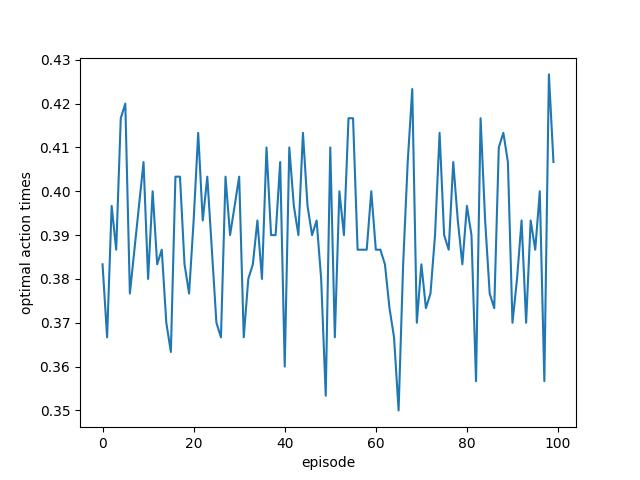
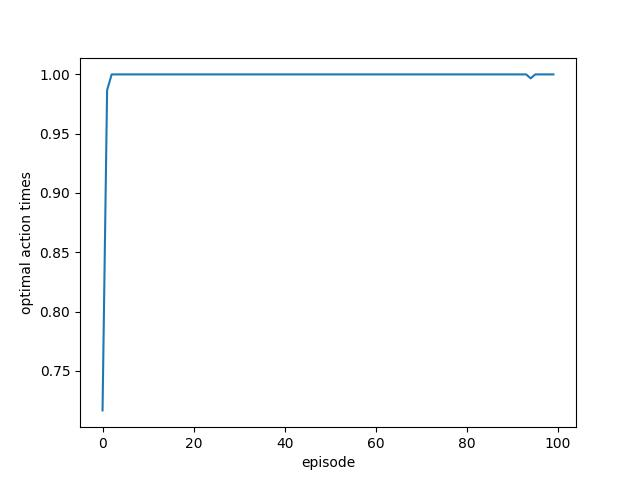
modify softmax function

diff --git a/TaxiProblem_softmax/qLearningAgent.py b/TaxiProblem_softmax/qLearningAgent.py
@@ -32,11 +32,11 @@ class QLearningAgent:
     def act(self):
         #softmax行動選択
         values = self.q_values[self.state]
-        sum_exp_values = sum([np.exp(v/self.tau) for v in values])   # softmax選択の分母の計算
-        print(sum_exp_values)
-        p = [np.exp(v/self.tau)/sum_exp_values for v in values]      # 確率分布の生成
+        max_value = np.max(values)  #オーバーフロー対策
+        exp_values = np.exp((values - max_value) / self.tau)
+        sum_exp_values = np.sum(exp_values)
+        p = exp_values / sum_exp_values  # 確率分布の生成
 
-        print(p)    #TODO なぜかpでnanになる
         action = np.random.choice(np.arange(len(values)), p=p)  # 確率分布pに従ってランダムで選択   
 
         self.previous_action = action

diff --git a/TaxiProblem_softmax/taxiproblem.py b/TaxiProblem_softmax/taxiproblem.py
@@ -1,6 +1,5 @@
-"""おもちゃ屋問題(Toy-Problem)シミュレーション"""
+"""タクシー問題(Taxi-Problem)シミュレーション"""
 
-import random
 import numpy as np
 import matplotlib.pyplot as plt
 from qLearningAgent import QLearningAgent
@@ -39,6 +38,8 @@ if __name__ == '__main__':
         agent.observe(state)    #初期状態に
         
     agent.save_q('Qvalue_softmax.npy')
+    np.save('OptimalActionProbability_Ave_Softmax.npy', opt_act_prob)
+    
     #結果のプロット
     plt.plot(np.arange(cst.const.NB_EPISODE), np.array(opt_act_prob))
     plt.xlabel("episode")

diff --git a/TaxiProblem_softmax/Const/constant.py b/TaxiProblem_softmax/Const/constant.py
@@ -8,8 +8,8 @@ import numpy as np
 const.STATE_NUM = 3 #状態1, 2, 3が街A, B, Cにいる状態 (プログラム上では0 or 1 or 2)
 const.ACT_NUM = 3 #1:通行人探し 2:タクスタ 3:無線(同上)
 const.NB_EPISODE = 100    # エピソード数
-const.NB_STEP = 10  #TODO 後で変更
-const.TAU = .1    # 温度
+const.NB_STEP = 300
+const.TAU = 10.    # 温度
 const.ALPHA = .1      # 学習率
 const.GAMMA = .90     # 割引率
 const.ACTIONS = np.arange(const.ACT_NUM)    #行動集合

diff --git a/TaxiProblem_softmax/draw.py b/TaxiProblem_softmax/draw.py
@@ -1,7 +1,5 @@
 import numpy as np
 import matplotlib.pyplot as plt
 
-q_value = np.load('Qvalue.npy', allow_pickle=True)
+q_value = np.load('Qvalue_softmax.npy', allow_pickle=True)
 print(q_value)
-# print(np.max(q_value))
-# print(np.min(q_value))
